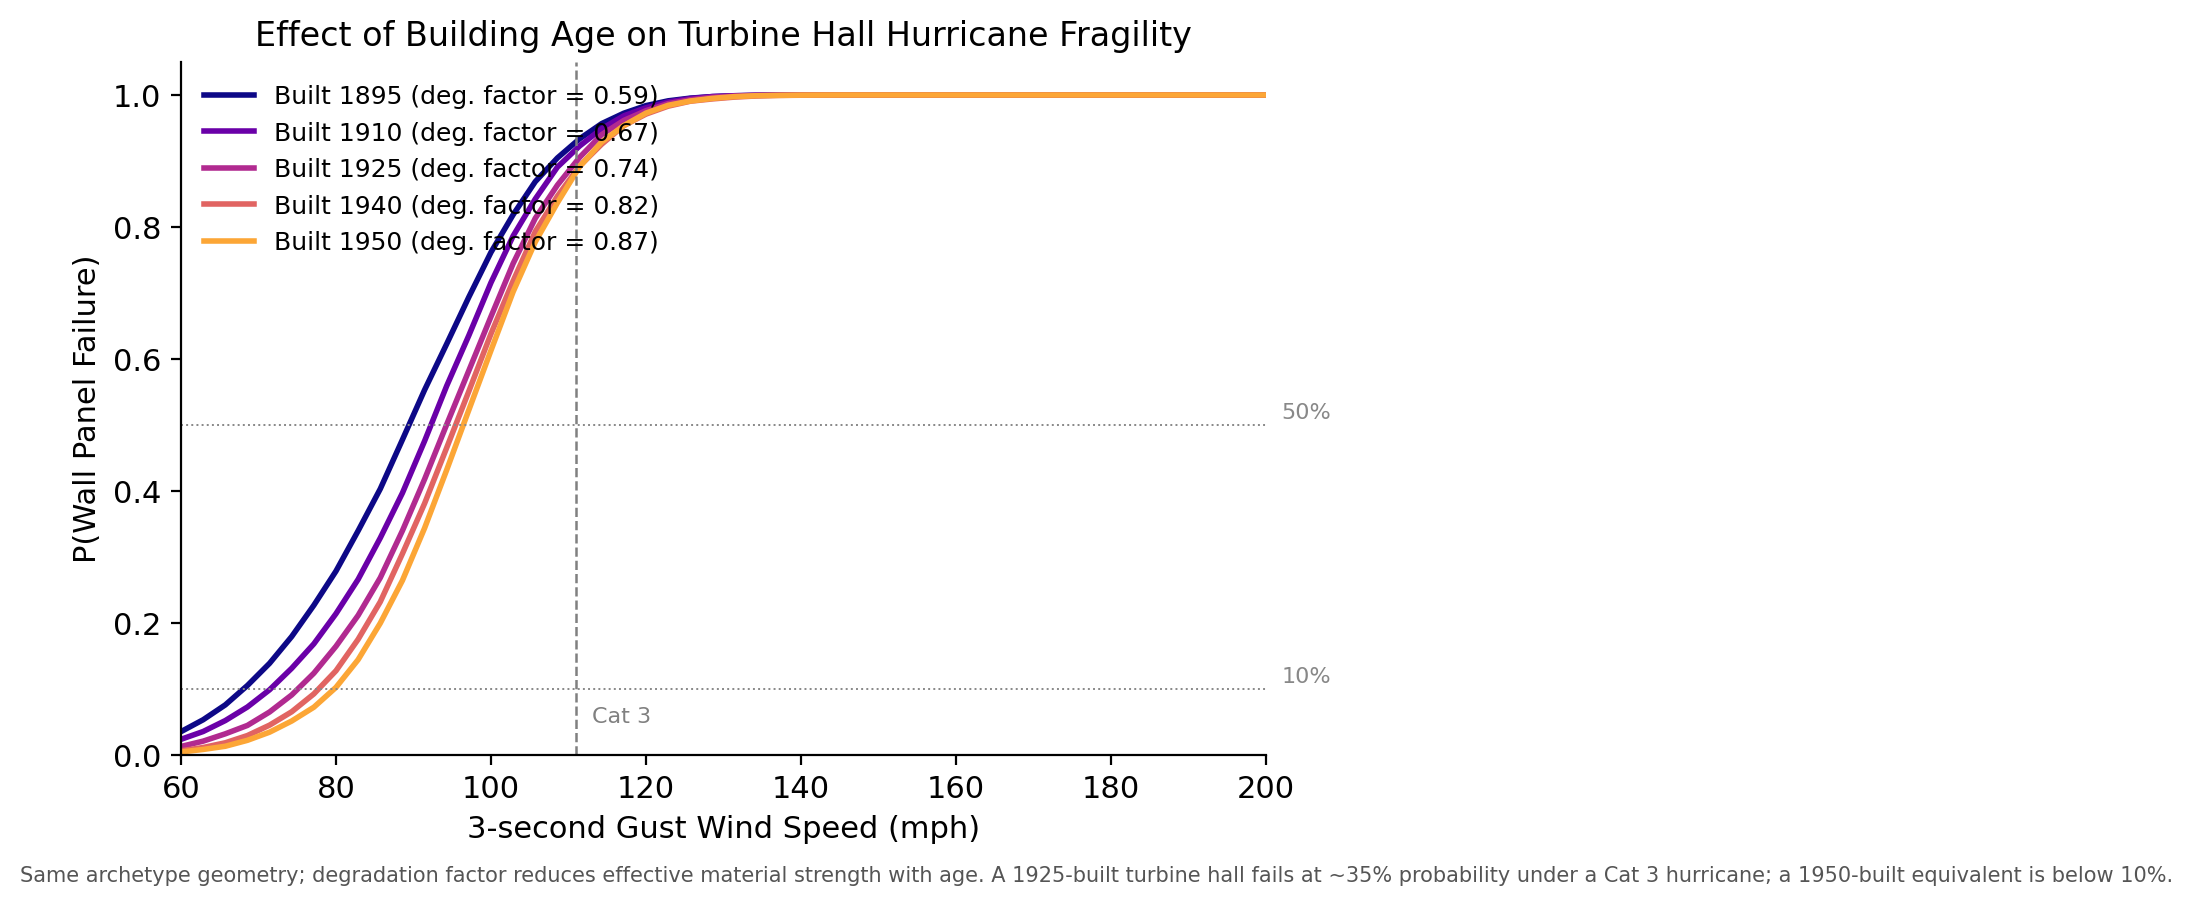
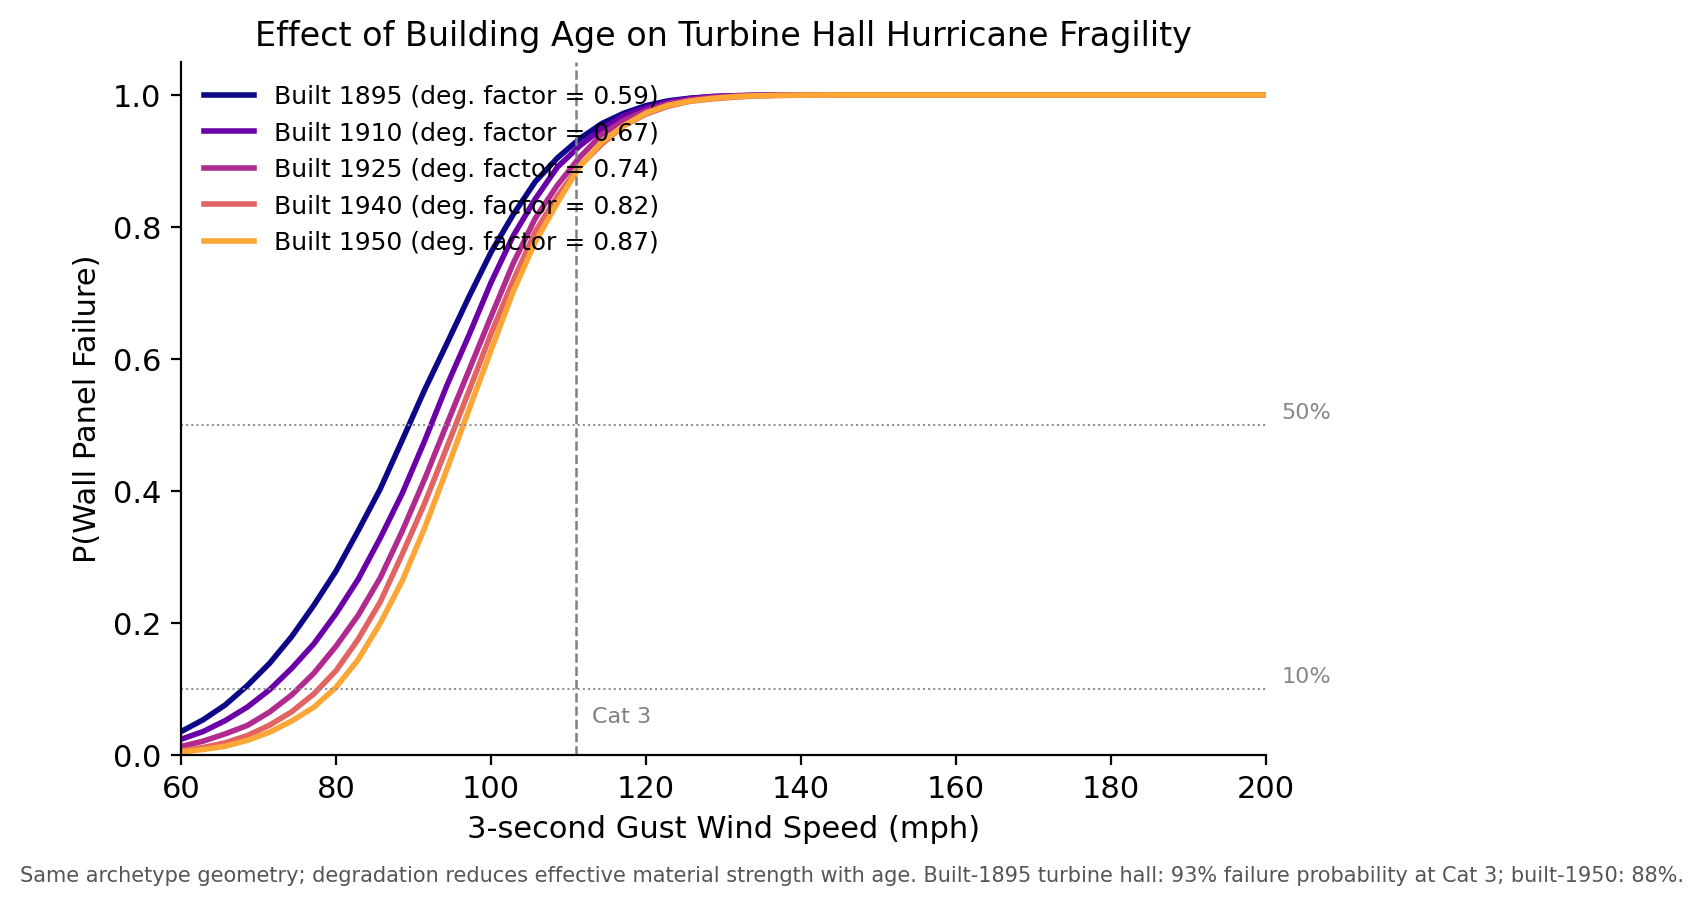
Extend hazard table, fix combined flexure moment, clean up imports
- Add 1/2/5-yr entries to RETURN_PERIOD_WIND to prevent truncated AFP
  integration for archetypes failing below the 10-yr wind speed
- Fix combined flexure moment: surge was projected as fictitious uniform
  pressure over full panel height, overstating flood moment by ~2x when
  h_surge << panel_height; now uses SS concentrated-load approximation
  at surge midpoint (governing_dc_combined + dc_out_of_plane_flexure_combined)
- Combined AFP: turbine hall 33.7% → 23.1%; boiler house 16.2% → 13.7%
- Move all inline imports (LogNorm, Line2D, Legend) to module level
- Fix combined figure dual-legend: use Legend class directly, not double
  ax.legend() calls which silently replaced each other
- Compute degradation sensitivity caption from live data, not hardcoded %
- Document buoyancy omission in dc_overturning (slightly non-conservative
  for deep flood: overestimates stabilizing moment by ~8-12%)

diff --git a/src/run_analysis.py b/src/run_analysis.py
@@ -20,6 +20,9 @@ import numpy as np
 import matplotlib
 matplotlib.use("Agg")
 import matplotlib.pyplot as plt
+from matplotlib.colors import LogNorm
+from matplotlib.legend import Legend
+from matplotlib.lines import Line2D
 from scipy.interpolate import interp1d
 
 from urm_wall import ARCHETYPES
@@ -215,13 +218,17 @@ def plot_combined_fragility(results: dict):
         ax_right.plot(r_c["V_mph"], r_c["p_fail"],
                       color=COLORS[key], ls="-", lw=2.0,
                       label=arch["label"])
-    # Explain line styles via proxy artists
-    from matplotlib.lines import Line2D
-    ax_right.add_artist(ax_right.legend(frameon=False, loc="upper left"))
-    style_legend = ax_right.legend(
-        handles=[Line2D([0], [0], color="k", ls="--", lw=1.5, alpha=0.5, label="Wind only"),
-                 Line2D([0], [0], color="k", ls="-",  lw=2.0,             label="Wind + surge")],
-        frameon=False, loc="center left", fontsize=8)
+    # Two separate legends: archetype colors (upper-left) + line styles (lower-right)
+    # Use Legend class directly to avoid the second ax.legend() replacing the first.
+    arch_legend = ax_right.legend(frameon=False, loc="upper left")
+    style_handles = [
+        Line2D([0], [0], color="k", ls="--", lw=1.5, alpha=0.5, label="Wind only"),
+        Line2D([0], [0], color="k", ls="-",  lw=2.0,             label="Wind + surge"),
+    ]
+    style_legend = Legend(ax_right, style_handles,
+                          [h.get_label() for h in style_handles],
+                          frameon=False, loc="lower right", fontsize=8)
+    ax_right.add_artist(arch_legend)
     ax_right.add_artist(style_legend)
     for p_ref in [0.10, 0.50]:
         ax_right.axhline(p_ref, color="#888", lw=0.7, ls=":")
@@ -249,7 +256,6 @@ def plot_risk_matrix(results: dict):
     Demonstrates that legacy URM plants face order-of-magnitude higher risk
     than the industry implicitly assumes.
     """
-    from hazard_loads import RETURN_PERIOD_WIND, RETURN_PERIOD_FLOOD
 
     hazard_labels = ["Hurricane\nWind", "EF2+ Tornado\n(annual rate)", "100-yr\nFlood", "Combined\nHurricane"]
     arch_labels = [ARCHETYPES[k]["label"] for k in ARCHETYPES]
@@ -289,7 +295,6 @@ def plot_risk_matrix(results: dict):
     fig, ax = plt.subplots(figsize=(8, 3.5))
 
     # Log-scale colormap so we can see variation from 0.01% to 10%+
-    from matplotlib.colors import LogNorm
     afp_clipped = np.clip(afp, 0.01, 100.0)
     im = ax.imshow(afp_clipped, cmap="YlOrRd",
                    norm=LogNorm(vmin=0.01, vmax=afp_clipped.max() * 2),
@@ -335,8 +340,8 @@ def plot_risk_matrix(results: dict):
 def plot_degradation_sensitivity():
     """
     Show how hurricane wind fragility for the turbine hall shifts as a function
-    of construction year (1890, 1910, 1930, 1950) — key argument for why aging
-    plants face invisibly elevated risk.
+    of construction year (1895–1950) — key argument for why aging plants face
+    invisibly elevated risk that is invisible to current inspection practice.
     """
     from hazard_loads import wind_pressure_psf
     from limit_states import governing_dc
@@ -346,8 +351,11 @@ def plot_degradation_sensitivity():
     fig, ax = plt.subplots(figsize=(7, 4.5))
 
     years = [1895, 1910, 1925, 1940, 1950]
+    cat3_mph = 111.0
     cmap = plt.get_cmap("plasma")
     arch_base = ARCHETYPES["turbine_hall"].copy()
+
+    pf_at_cat3 = {}   # for dynamic caption
 
     for idx, yr in enumerate(years):
         arch = arch_base.copy()
@@ -356,7 +364,7 @@ def plot_degradation_sensitivity():
 
         p_net = wind_pressure_psf(V_HURRICANE)
         ph = arch["panel_height_ft_mean"]
-        F = p_net * ph * arch["width_ft"]
+        F   = p_net * ph * arch["width_ft"]
         arm = np.full(len(V_HURRICANE), ph / 2.0)
 
         result = governing_dc(walls, F, p_net, arm)
@@ -366,12 +374,17 @@ def plot_degradation_sensitivity():
                 color=color, lw=2.0,
                 label=f"Built {yr} (deg. factor = {deg:.2f})")
 
+        # Interpolate P(fail) at Cat 3 for caption
+        pf_at_cat3[yr] = float(
+            interp1d(V_HURRICANE, result["p_fail"], bounds_error=False,
+                     fill_value=(0, 1))(cat3_mph)
+        )
+
     for p_ref in [0.10, 0.50]:
         ax.axhline(p_ref, color="#888", lw=0.7, ls=":")
         ax.text(202, p_ref + 0.01, f"{int(p_ref*100)}%", fontsize=8, color="#888")
 
-    # Mark Cat 3 hurricane ~111 mph
-    ax.axvline(111, color="gray", lw=0.9, ls="--")
+    ax.axvline(cat3_mph, color="gray", lw=0.9, ls="--")
     ax.text(113, 0.05, "Cat 3", fontsize=8, color="gray")
 
     ax.set_xlabel("3-second Gust Wind Speed (mph)")
@@ -380,10 +393,12 @@ def plot_degradation_sensitivity():
     ax.set_xlim(60, 200)
     ax.set_ylim(0, 1.05)
     ax.legend(loc="upper left", frameon=False, fontsize=9)
+
+    oldest, newest = years[0], years[-1]
     fig.text(0.01, -0.03,
-             "Same archetype geometry; degradation factor reduces effective material strength with age. "
-             "A 1925-built turbine hall fails at ~35% probability under a Cat 3 hurricane; "
-             "a 1950-built equivalent is below 10%.",
+             f"Same archetype geometry; degradation reduces effective material strength with age. "
+             f"Built-{oldest} turbine hall: {pf_at_cat3[oldest]:.0%} failure probability at Cat 3; "
+             f"built-{newest}: {pf_at_cat3[newest]:.0%}.",
              fontsize=7.5, color="#555")
     save(fig, "degradation_sensitivity.png")
 

diff --git a/src/limit_states.py b/src/limit_states.py
@@ -72,6 +72,11 @@ def dc_overturning(walls: dict,
     Demand:   M_ot = F · arm                           (lbf·ft)
     Capacity: M_stab = W · t/2                         (lbf·ft)
 
+    NOTE: W uses full dry self-weight. For flood loading, partial submersion
+    reduces effective weight by buoyancy (γ_w · V_sub). Omitting buoyancy
+    overpredicts M_stab by ~8–12% at 10 ft submersion, making results
+    slightly non-conservative (understates failure probability for flood).
+
     Returns D/C ratio array shape (n_intensity, n_samples).
     """
     W   = walls["W_lbf"]     # (nS,) lbf
@@ -84,6 +89,72 @@ def dc_overturning(walls: dict,
     M_stab = W * (t / 2.0)                    # (nS,) lbf·ft
 
     return M_ot / np.maximum(M_stab, 1e-6)
+
+
+def dc_out_of_plane_flexure_combined(walls: dict,
+                                      p_wind_psf: np.ndarray,
+                                      F_flood_lbf: np.ndarray,
+                                      h_surge_ft: np.ndarray) -> np.ndarray:
+    """
+    Flexure D/C for simultaneous wind + partial-depth flood on a simply-supported panel.
+
+    Wind acts uniformly over the full panel height ph.
+    Flood acts only over the lower h_surge portion — using a concentrated-load
+    approximation (F at h_surge/2 from base on SS beam of span ph) rather than
+    the incorrect equivalent-uniform-pressure-over-ph approach, which over-
+    estimates the flood moment contribution by ~2x when h_surge << ph.
+
+    M_wind  = p_wind · w · ph² / 8           (uniform load)
+    M_flood = F_flood · (h_s/2) · (ph − h_s/2) / ph   (conc. load at midpoint of surge)
+    M_cap   = f_r_eff · 144 · S
+    """
+    ph  = walls["ph_ft"]                      # (nS,) sampled panel height
+    w   = walls["w_ft"]                       # (nS,)
+    S   = walls["S_ft3"]                      # (nS,)
+    f_r_psf = walls["f_r_eff"] * 144.0        # (nS,) psi → psf
+
+    p   = p_wind_psf[:, np.newaxis]           # (nI, 1)
+    F_f = F_flood_lbf[:, np.newaxis]          # (nI, 1)
+    h_s = np.minimum(h_surge_ft[:, np.newaxis], ph)  # surge cannot exceed panel height
+
+    M_wind  = (p * w) * ph**2 / 8.0
+    # SS beam concentrated-load moment: F·a·b/L, a=h_s/2 from base, b=ph−a
+    a       = h_s / 2.0
+    M_flood = F_f * a * (ph - a) / np.maximum(ph, 1e-6)
+
+    M_cap = f_r_psf * S
+    return (M_wind + M_flood) / np.maximum(M_cap, 1e-6)
+
+
+def governing_dc_combined(walls: dict,
+                           F_wind_lbf: np.ndarray,
+                           p_wind_psf: np.ndarray,
+                           F_flood_lbf: np.ndarray,
+                           h_surge_ft: np.ndarray,
+                           arm_combined_ft: np.ndarray) -> dict:
+    """
+    D/C ratios for simultaneous wind + storm-surge flood loading.
+
+    Flexure uses the corrected partial-load moment (flood acts only over surge depth).
+    Sliding and overturning use the total lateral force F_wind + F_flood.
+    """
+    F_total = F_wind_lbf + F_flood_lbf
+
+    dc_f = dc_out_of_plane_flexure_combined(walls, p_wind_psf, F_flood_lbf, h_surge_ft)
+    dc_s = dc_base_sliding(walls, F_total)
+    dc_o = dc_overturning(walls, F_total, arm_combined_ft)
+
+    dc_gov = np.maximum(dc_f, np.maximum(dc_s, dc_o))
+    p_fail = (dc_gov >= 1.0).mean(axis=1)
+
+    mean_f = dc_f.mean(axis=1)
+    mean_s = dc_s.mean(axis=1)
+    mean_o = dc_o.mean(axis=1)
+    mode_idx = np.argmax(np.stack([mean_f, mean_s, mean_o], axis=1), axis=1)
+    modes = np.array(["flexure", "sliding", "overturning"])[mode_idx]
+
+    return {"dc_flex": dc_f, "dc_slide": dc_s, "dc_ot": dc_o,
+            "dc_gov": dc_gov, "p_fail": p_fail, "governing_mode": modes}
 
 
 def governing_dc(walls: dict,

diff --git a/src/fragility.py b/src/fragility.py
@@ -19,7 +19,7 @@ from hazard_loads import (
     hurricane_landfall_forces, EF_MID_SPEEDS,
     RETURN_PERIOD_WIND, RETURN_PERIOD_FLOOD,
 )
-from limit_states import governing_dc
+from limit_states import governing_dc, governing_dc_combined
 
 N_SAMPLES = 12_000   # per archetype; balance between accuracy and speed
 
@@ -97,31 +97,39 @@ def combined_hurricane_fragility(archetype: dict) -> dict:
     """
     P(wall failure | V_hurricane) under simultaneous storm surge + wind (landfall).
     Surge depth correlated with wind speed via surge_from_wind().
+
+    Uses governing_dc_combined which correctly computes the flexure moment from
+    a partial-depth flood load (concentrated-load approx at surge midpoint) rather
+    than projecting surge force as a fictitious uniform pressure over the full panel.
     """
     walls = sample_walls(archetype, N_SAMPLES, seed=4)
     surge = surge_from_wind(V_HURRICANE)
     loads = hurricane_landfall_forces(V_HURRICANE, surge,
                                        width_ft=archetype["width_ft"])
 
-    ph = archetype["panel_height_ft_mean"]
-    F_wind  = loads["p_wind_psf"] * ph * archetype["width_ft"]
-    F_flood = loads["F_flood_lbf"]
-    F_total = F_wind + F_flood
+    ph   = archetype["panel_height_ft_mean"]
+    w    = archetype["width_ft"]
+    F_wind  = loads["p_wind_psf"] * ph * w   # (nV,) force over panel span
+    F_flood = loads["F_flood_lbf"]            # (nV,) hydrostatic + hydrodynamic
 
-    # Effective uniform pressure for flexure check (over panel height)
-    p_combined = F_total / (ph * archetype["width_ft"])
-
-    # Weighted moment arm for overturning
+    # Overturning arm: weighted resultant from base
     arm_wind  = ph / 2.0
     arm_combined = np.where(
-        F_total > 0,
-        (F_wind * arm_wind + F_flood * loads["arm_flood_ft"]) / F_total,
+        (F_wind + F_flood) > 0,
+        (F_wind * arm_wind + F_flood * loads["arm_flood_ft"]) / (F_wind + F_flood),
         arm_wind,
     )
 
-    p_fail, modes = _run_hazard(walls, F_total, p_combined, arm_combined)
+    result = governing_dc_combined(
+        walls,
+        F_wind_lbf   = F_wind,
+        p_wind_psf   = loads["p_wind_psf"],
+        F_flood_lbf  = F_flood,
+        h_surge_ft   = surge,
+        arm_combined_ft = arm_combined,
+    )
     return {"V_mph": V_HURRICANE, "surge_ft": surge,
-            "p_fail": p_fail, "modes": modes}
+            "p_fail": result["p_fail"], "modes": result["governing_mode"]}
 
 
 def run_all_fragility() -> dict:

diff --git a/src/hazard_loads.py b/src/hazard_loads.py
@@ -132,8 +132,15 @@ def hurricane_landfall_forces(V_wind_mph: float | np.ndarray,
 
 # ── Return-period wind speed table (approximation for ASCE 7-22 Risk Cat II) ──
 # Representative Gulf/Atlantic Coast exposure; used for annual risk calculation.
+# Short-return-period entries (1–5 yr) are approximate; they anchor the lower
+# tail of the integral and prevent truncation errors for archetypes that start
+# failing below the 10-yr wind speed.  Values from NWS climatology for coastal
+# SE US; treat as order-of-magnitude estimates.
 RETURN_PERIOD_WIND = {
-    10:   85,    # mph, 3-s gust
+    1:    55,    # mph, 3-s gust (approximate calm-year wind)
+    2:    65,
+    5:    76,
+    10:   85,
     25:   100,
     50:   115,
     100:  130,
